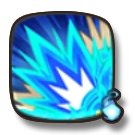
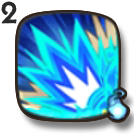
스킬 숫자표기 + 위치조정

diff --git a/SSUClient/GameFramework.cpp b/SSUClient/GameFramework.cpp
@@ -809,7 +809,7 @@ void CGameFramework::BuildObjects()
 		m_ppUILayer[21] = new UILayer(m_nSwapChainBuffers, m_pd3dDevice, m_pd3dCommandQueue, D2D1::ColorF::Gray, D2D1::ColorF::Black);
 
 		// Skill UI
-		m_ppUILayer[22] = new SkillUI(m_nSwapChainBuffers, m_pd3dDevice, m_pd3dCommandQueue, D2D1::ColorF::Red, D2D1::ColorF::White);
+		m_ppUILayer[22] = new SkillUI(m_nSwapChainBuffers, m_pd3dDevice, m_pd3dCommandQueue, D2D1::ColorF::Gray, D2D1::ColorF::White);
 
 		m_ppUILayer[0]->setAlpha(0.5, 1.0);
 		m_ppUILayer[1]->setAlpha(0.5, 1.0);
@@ -839,7 +839,7 @@ void CGameFramework::BuildObjects()
 		m_ppUILayer[20]->setAlpha(1.0, 1.0);
 		m_ppUILayer[21]->setAlpha(0.8, 1.0);
 
-		m_ppUILayer[22]->setAlpha(0.0, 1.0);
+		m_ppUILayer[22]->setAlpha(0.5, 1.0);
 
 		m_ppUILayer[0]->Resize(m_ppd3dSwapChainBackBuffers, m_nWndClientWidth, m_nWndClientHeight,
 			DWRITE_TEXT_ALIGNMENT_LEADING, DWRITE_PARAGRAPH_ALIGNMENT_FAR);
